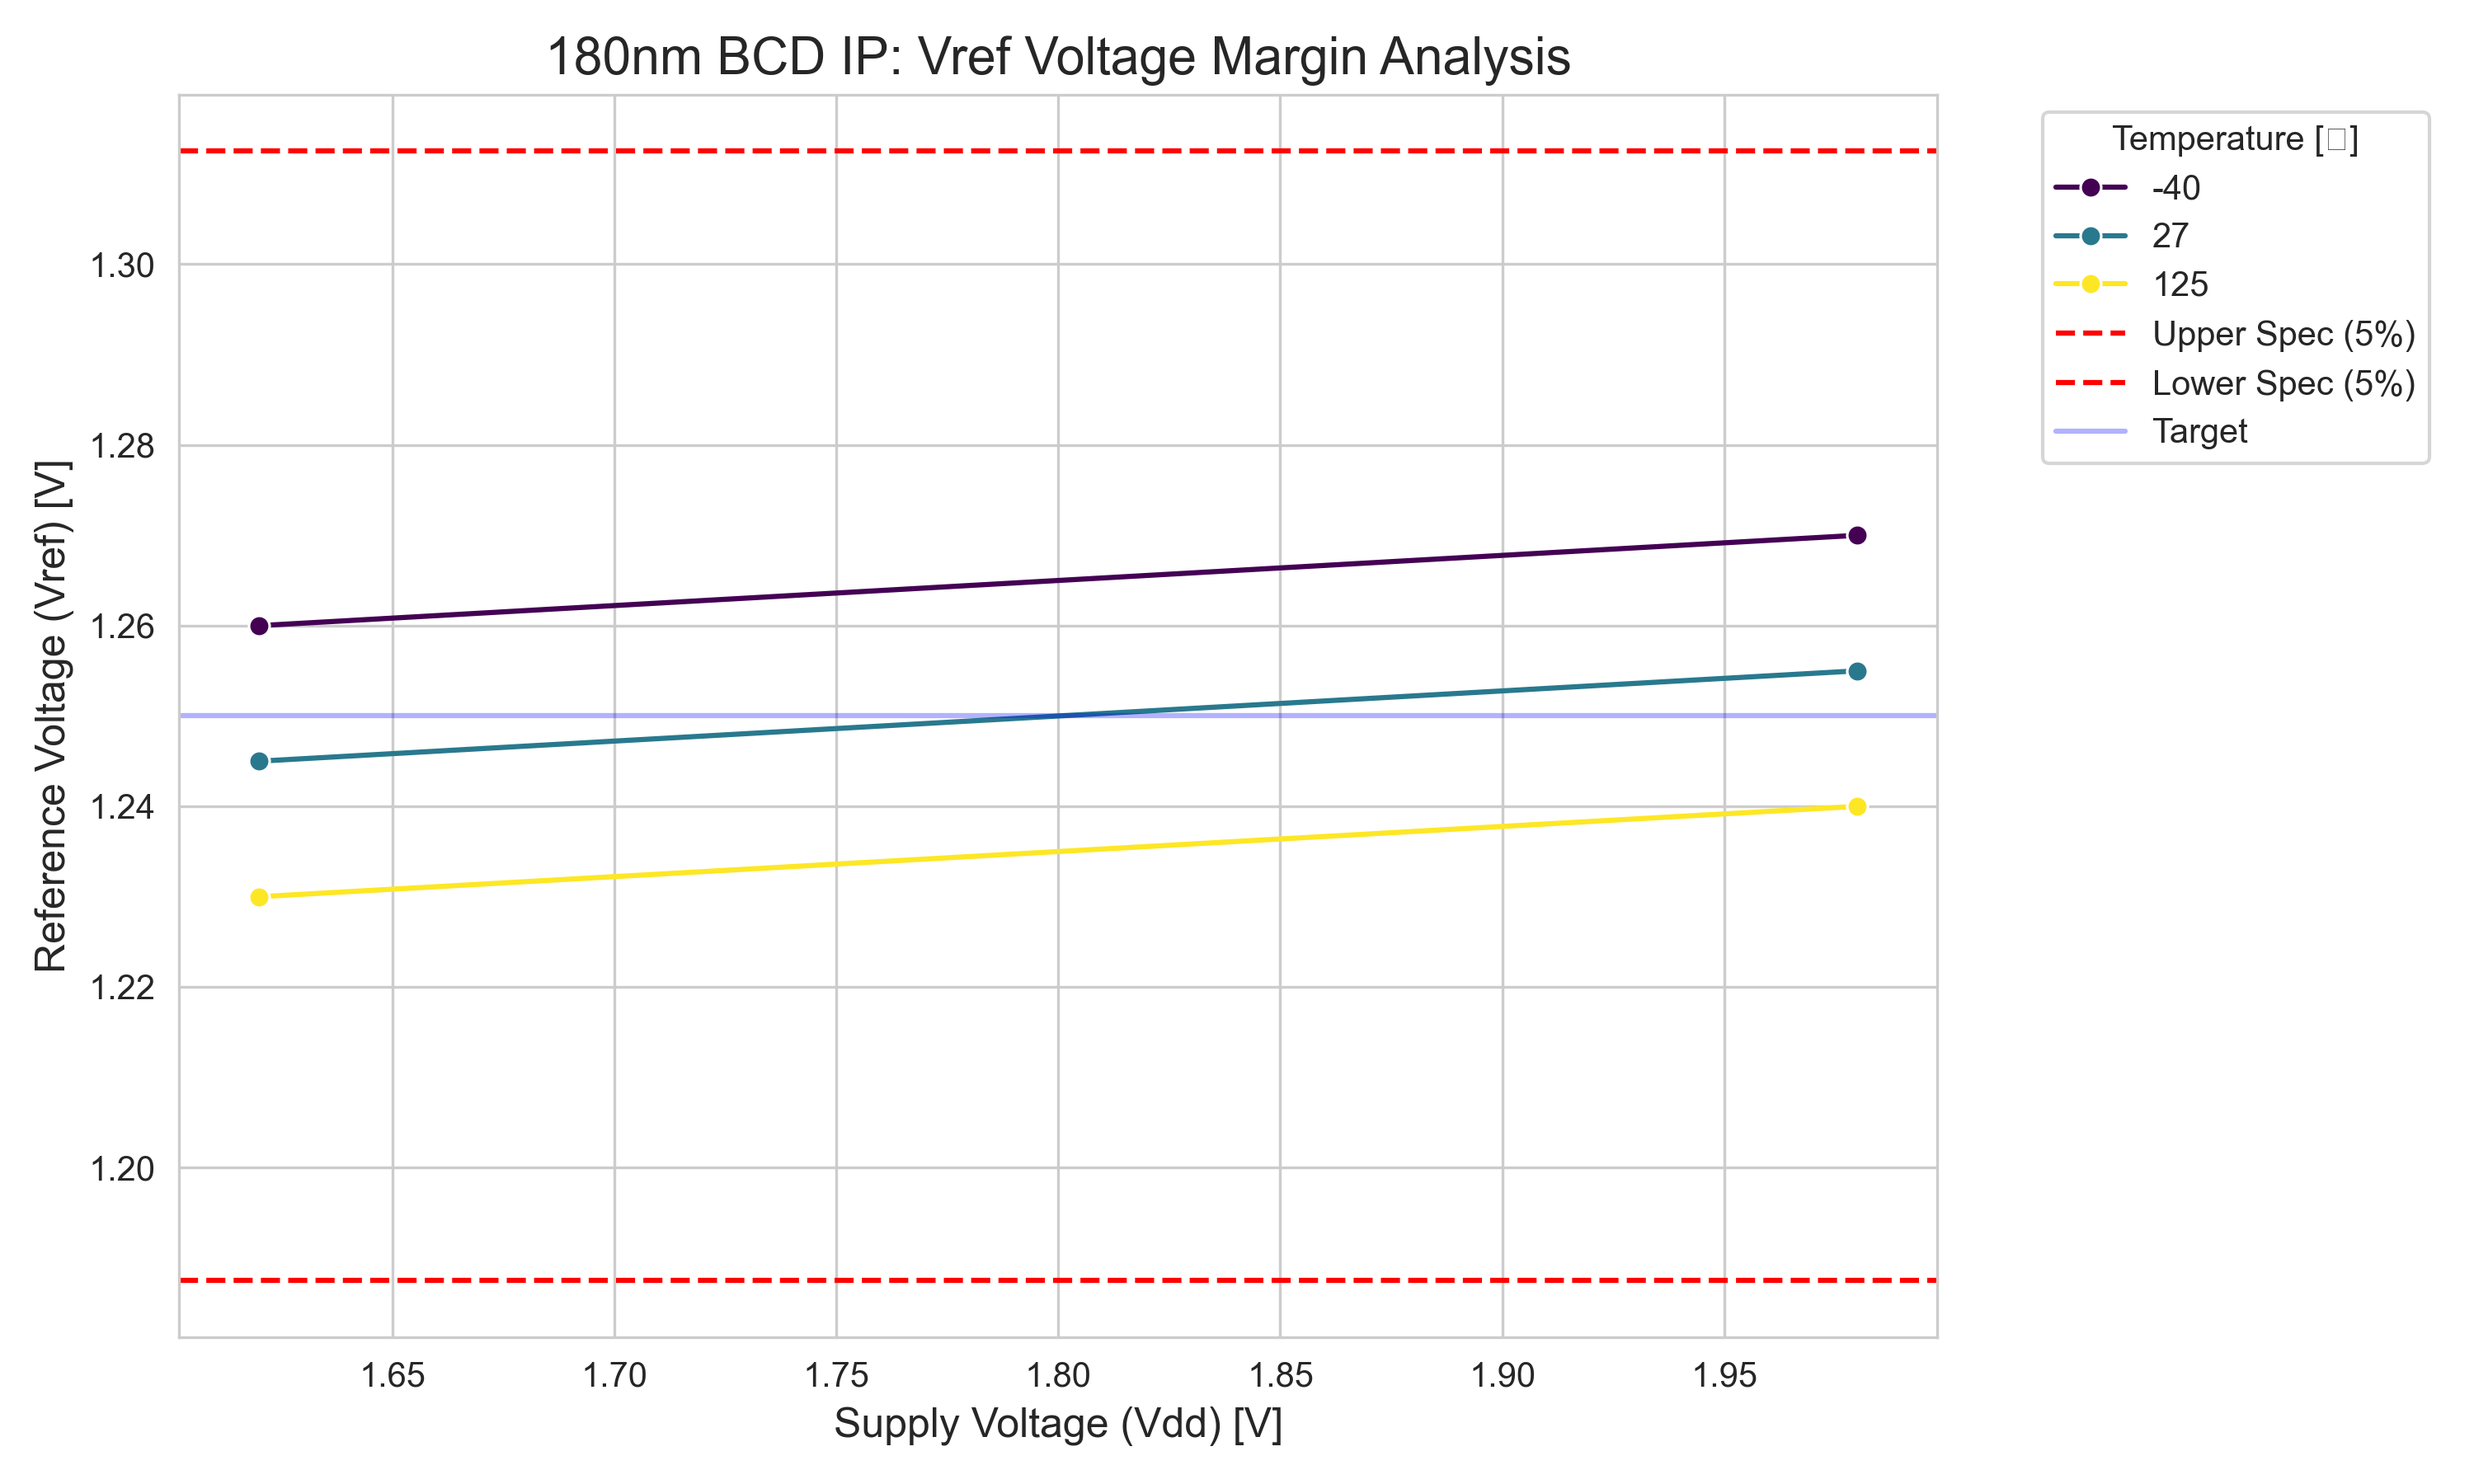
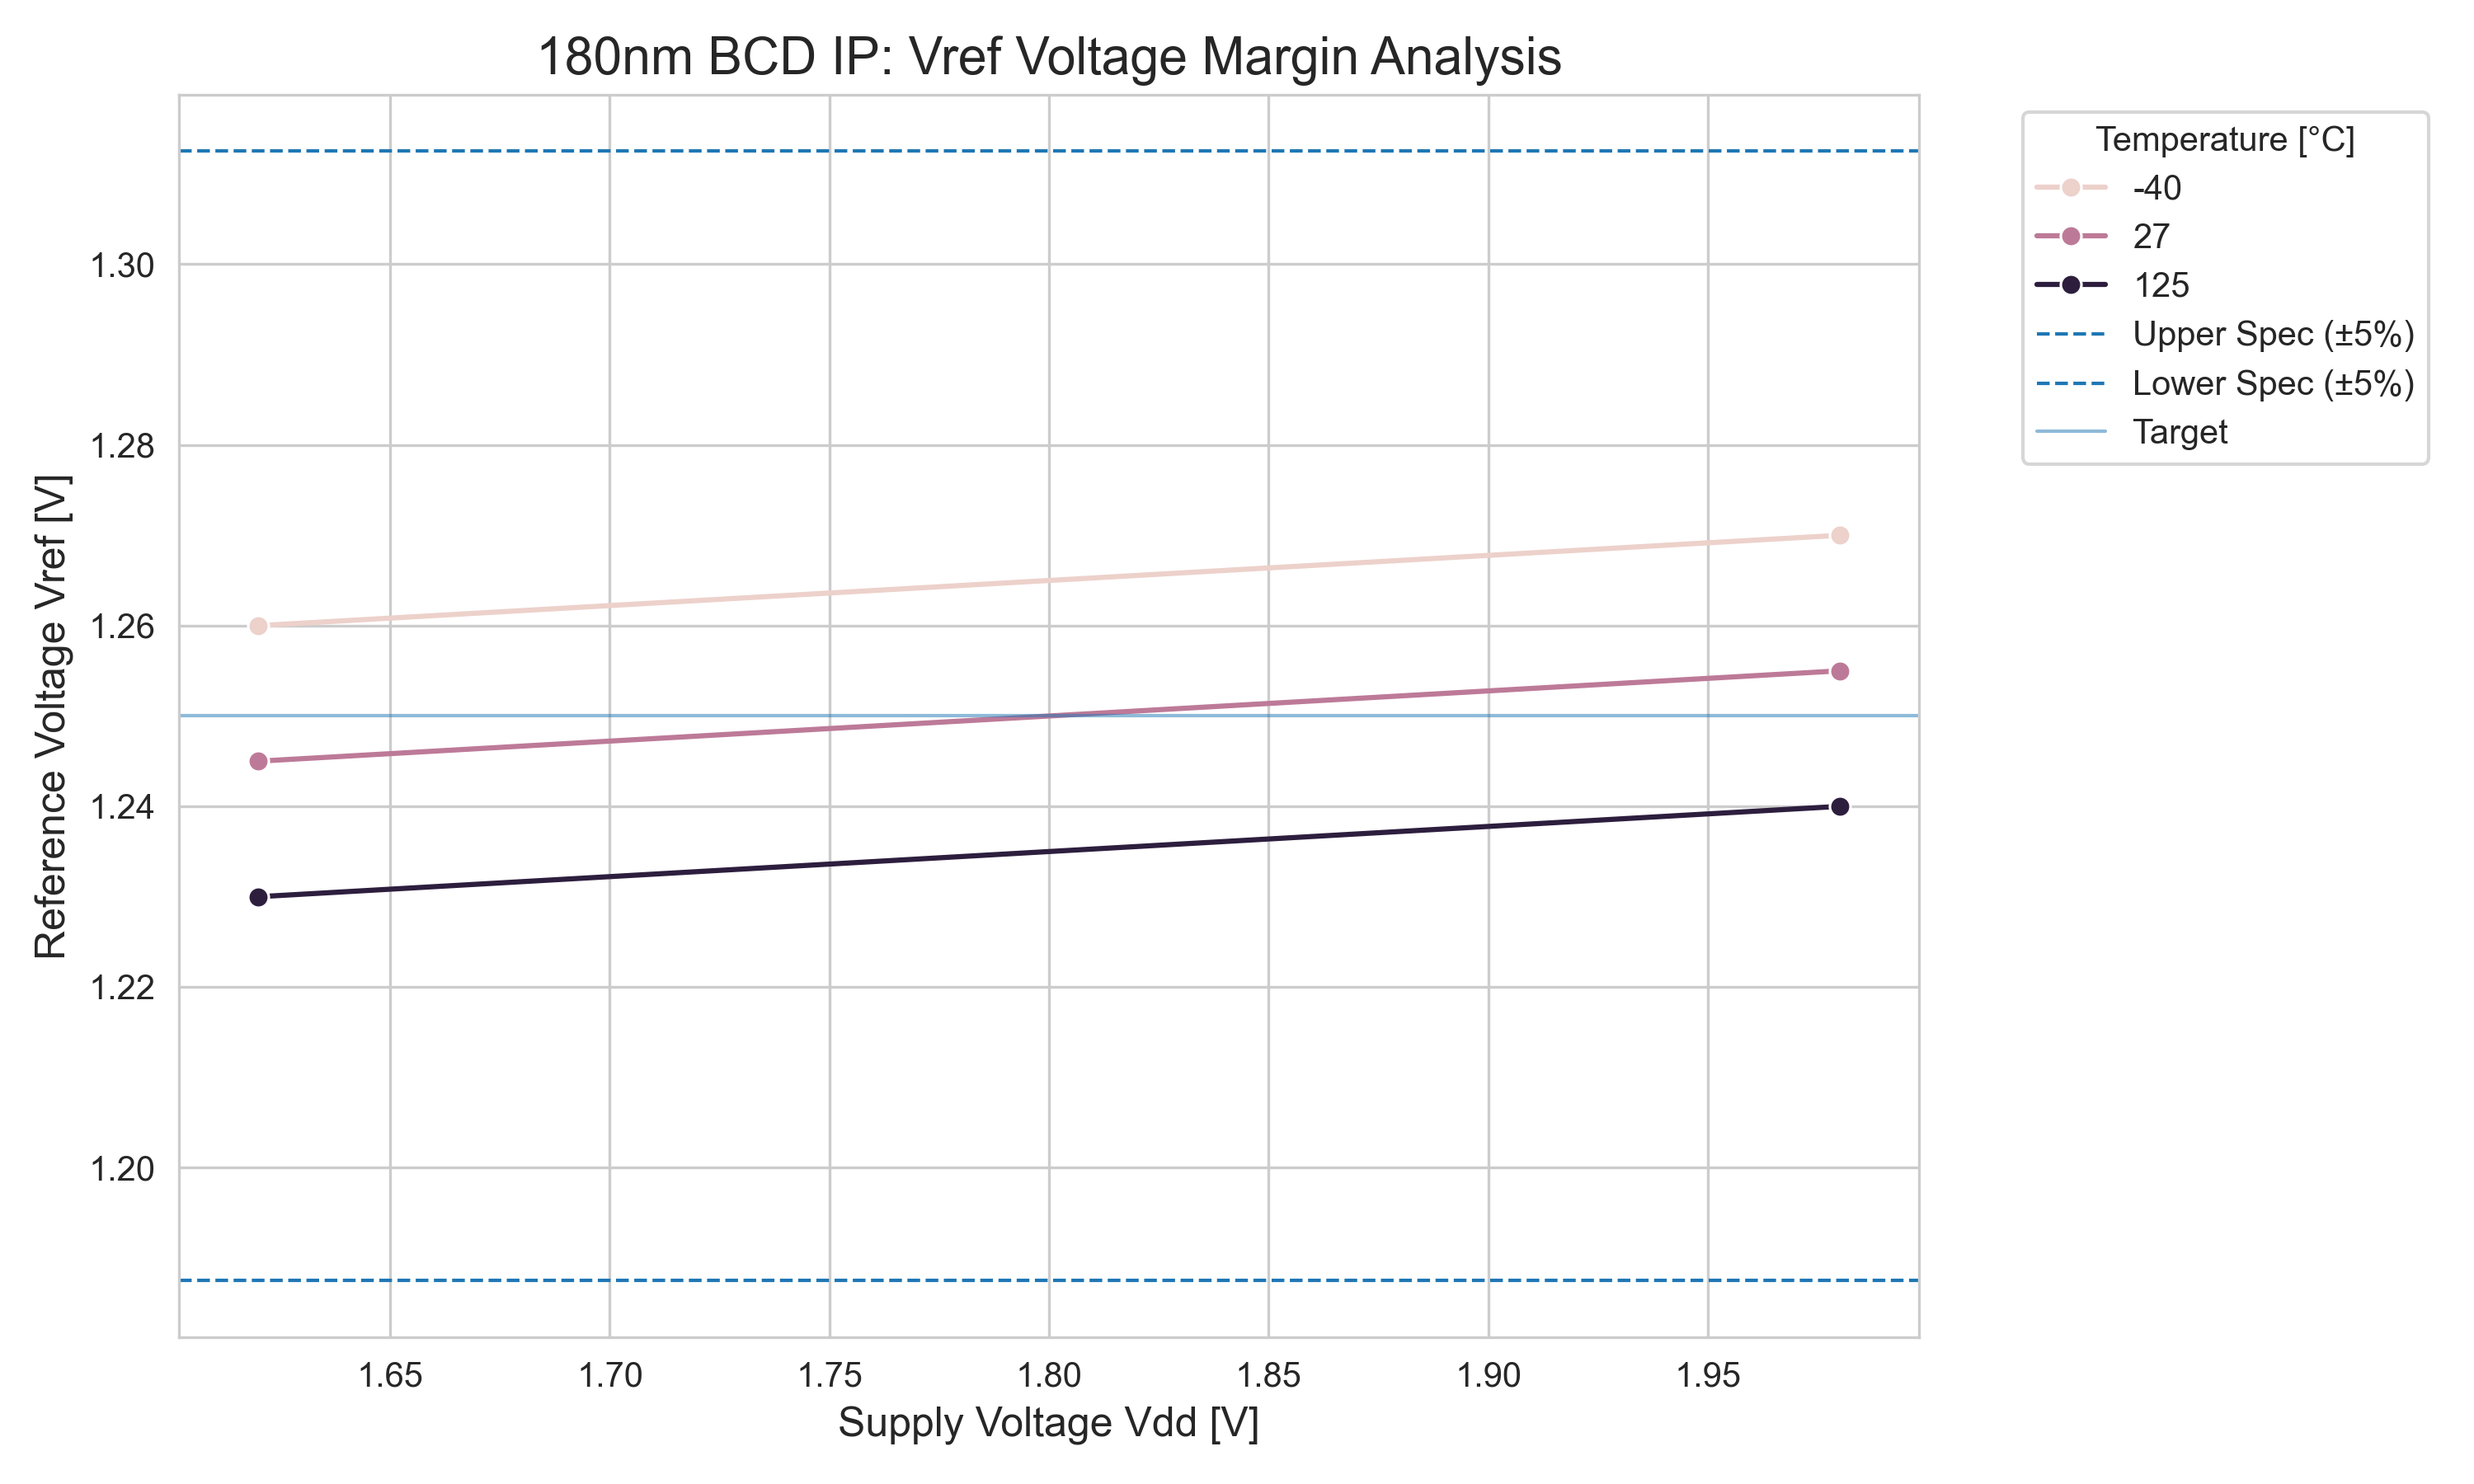
s-bend-architecture.html

diff --git a/python/voltage/IP_Technical_Datasheet.html b/python/voltage/IP_Technical_Datasheet.html
@@ -1,70 +1,56 @@
 
     <!DOCTYPE html>
-    <html lang="en">
+    <html>
     <head>
-        <meta charset="UTF-8">
         <title>180nm BCD IP Datasheet</title>
         <style>
-            body { font-family: 'Segoe UI', Tahoma, Geneva, Verdana, sans-serif; line-height: 1.6; color: #333; max-width: 1000px; margin: auto; padding: 40px; background-color: #f0f2f5; }
-            .container { background: white; padding: 40px; border-radius: 10px; box-shadow: 0 4px 15px rgba(0,0,0,0.1); }
-            header { border-bottom: 3px solid #0056b3; margin-bottom: 30px; display: flex; justify-content: space-between; align-items: center; }
-            h1 { color: #0056b3; margin: 0; }
-            .status-tag { background: #28a745; color: white; padding: 5px 15px; border-radius: 20px; font-weight: bold; }
-            .summary-grid { display: grid; grid-template-columns: repeat(4, 1fr); gap: 20px; margin: 30px 0; }
-            .card { background: #e9ecef; padding: 20px; border-radius: 8px; text-align: center; }
-            .card-val { font-size: 22px; font-weight: bold; color: #0056b3; }
-            table { width: 100%; border-collapse: collapse; margin: 30px 0; }
-            th, td { padding: 12px; border: 1px solid #dee2e6; text-align: left; }
+            body { font-family: Arial, sans-serif; line-height: 1.6; color: #333; max-width: 900px; margin: auto; padding: 20px; }
+            h1, h2 { color: #0056b3; border-bottom: 2px solid #0056b3; padding-bottom: 10px; }
+            .summary-box { background: #f4f4f4; padding: 15px; border-radius: 8px; margin: 20px 0; display: flex; justify-content: space-around; }
+            .metric { text-align: center; }
+            .metric-val { font-size: 24px; font-weight: bold; color: #d9534f; }
+            table { width: 100%; border-collapse: collapse; margin: 20px 0; }
+            th, td { border: 1px solid #ddd; padding: 12px; text-align: left; }
             th { background-color: #0056b3; color: white; }
-            .image-section { display: flex; gap: 20px; margin-top: 40px; }
-            .image-box { flex: 1; text-align: center; border: 1px solid #ddd; padding: 10px; border-radius: 5px; }
-            img { max-width: 100%; height: auto; }
-            footer { margin-top: 50px; font-size: 0.8em; color: #777; border-top: 1px solid #ccc; padding-top: 10px; }
+            tr:nth-child(even) { background-color: #f9f9f9; }
+            .img-container { display: flex; justify-content: space-between; gap: 20px; margin-top: 30px; }
+            .img-box { width: 48%; text-align: center; }
+            img { width: 100%; border: 1px solid #ccc; border-radius: 5px; }
         </style>
     </head>
     <body>
-        <div class="container">
-            <header>
-                <div>
-                    <h1>ams OSRAM 180nm BCD IP</h1>
-                    <p>Bandgap Reference Block (BGR01)</p>
-                </div>
-                <div class="status-tag">Foundry Ready</div>
-            </header>
+        <h1>Technical Datasheet: 180nm BCD Bandgap Reference</h1>
+        <p><strong>Generated Date:</strong> 2026-03-02 17:35:40 | <strong>Foundry:</strong> ams OSRAM 180nm BCD Platform</p>
 
-            <section class="summary-grid">
-                <div class="card"><div class="card-val">99.7%</div>Estimated Yield</div>
-                <div class="card"><div class="card-val">1.250V</div>Typical Vout</div>
-                <div class="card"><div class="card-val">40.0mV</div>Total Margin</div>
-                <div class="card"><div class="card-val">9.79mV</div>Std. Deviation</div>
-            </section>
-
-            <h2>1. Electrical Performance Summary</h2>
-            <table>
-                <tr><th>Parameter</th><th>Symbol</th><th>Min</th><th>Typ</th><th>Max</th><th>Unit</th><th>Note</th></tr>
-                <tr><td>Supply Voltage</td><td>Vdd</td><td>1.62</td><td>1.80</td><td>1.98</td><td>V</td><td>+/- 10% Range</td></tr>
-                <tr><td>Reference Voltage</td><td>Vref</td><td>1.230</td><td>1.250</td><td>1.270</td><td>V</td><td>Full PVT Range</td></tr>
-                <tr><td>Temperature Range</td><td>Tj</td><td>-40</td><td>27</td><td>125</td><td>&deg;C</td><td>Automotive Grade 1</td></tr>
-                <tr><td>Current Consumption</td><td>Idd</td><td>-</td><td>110</td><td>135</td><td>nA</td><td>Static Current</td></tr>
-            </table>
-
-            <h2>2. Verification Analysis</h2>
-            <div class="image-section">
-                <div class="image-box">
-                    <img src="voltage_margin_plot.png" alt="Corner Analysis">
-                    <p><strong>Figure 1:</strong> Voltage Margin vs. Temperature</p>
-                </div>
-                <div class="image-box">
-                    <img src="mc_analysis_report.png" alt="Yield Analysis">
-                    <p><strong>Figure 2:</strong> Monte Carlo Statistical Distribution</p>
-                </div>
-            </div>
-
-            <footer>
-                <p>Confidential Proprietary Information - ams OSRAM Foundry Services</p>
-                <p>Report Generated: 2026-02-22 21:33:21 | Engineering Revision: 1.0.2</p>
-            </footer>
+        <div class="summary-box">
+            <div class="metric"><div class="metric-val">99.7%</div><div>Estimated Yield</div></div>
+            <div class="metric"><div class="metric-val">1.250V</div><div>Typical Vout</div></div>
+            <div class="metric"><div class="metric-val">40.0mV</div><div>Corner Variation</div></div>
         </div>
+
+        <h2>1. Electrical Specifications</h2>
+        <table>
+            <tr><th>Parameter</th><th>Symbol</th><th>Min</th><th>Typ</th><th>Max</th><th>Unit</th><th>Conditions</th></tr>
+            <tr><td>Supply Voltage</td><td>Vdd</td><td>1.62</td><td>1.80</td><td>1.98</td><td>V</td><td>Full Temp Range</td></tr>
+            <tr><td>Reference Voltage</td><td>Vref</td><td>1.230</td><td>1.250</td><td>1.270</td><td>V</td><td>-40 to 125&deg;C</td></tr>
+            <tr><td>Supply Current</td><td>Idd</td><td>90</td><td>110</td><td>135</td><td>nA</td><td>Static</td></tr>
+            <tr><td>Line Regulation</td><td>LR</td><td>-</td><td>2.5</td><td>5.0</td><td>mV/V</td><td>Vdd=1.62~1.98V</td></tr>
+        </table>
+
+        <h2>2. Simulation Analysis</h2>
+        <div class="img-container">
+            <div class="img-box">
+                <img src="voltage_margin_plot.png" alt="Voltage Margin">
+                <p><strong>Fig 1.</strong> Corner Analysis (PVT)</p>
+            </div>
+            <div class="img-box">
+                <img src="mc_analysis_plot.png" alt="Monte Carlo">
+                <p><strong>Fig 2.</strong> Monte Carlo Yield Analysis</p>
+            </div>
+        </div>
+
+        <h2>3. Reliability & SOA Status</h2>
+        <p>This IP block has been verified against 180nm BCD <strong>Safe Operating Area (SOA)</strong> rules. All devices operate within the voltage limits for the specified 1.8V nominal supply.</p>
     </body>
     </html>
     

diff --git a/python/basics/index.html b/python/basics/index.html
@@ -36,7 +36,7 @@ is discussed in a separate technical note.
 </p>
 
 <ol>
-<li><a href="./s-bend-architecture.htm">Architecture Overview</a></li>
+<li><a href="./s-bend-architecture.html">Architecture Overview</a></li>
 <li><a href="./waveguide_loss.pdf" target="_blank" rel="noopener noreferrer">View: Waveguide Loss & Curvature Perspective (PDF)</a></li>
 <li><a href="./practice-s-bend.png" target="_blank" rel="noopener noreferrer">Practice S-Bend (PNG)</a></li>
 </ol>

diff --git a/python/voltage/margin_analysis_fixed.py b/python/voltage/margin_analysis_fixed.py
@@ -1,0 +1,98 @@
+# margin_analysis_fixed.py
+# Purpose: Load sim_summary.txt and generate a Vref margin plot without GUI popups.
+# Fixes:
+#  - Removes duplicated imports / duplicated savefig calls
+#  - Keeps a non-interactive backend (Agg) to avoid plt.show() warnings
+#  - Replaces "℃" with "°C" to avoid missing glyph warnings
+#  - Avoids incorrect plt.xlabel("Temperature ...") (x-axis is Vdd)
+#  - Adds robust checks and clearer messages
+
+import matplotlib
+matplotlib.use("Agg")  # non-interactive backend for scripts/CI/headless runs
+
+import sys
+from pathlib import Path
+
+import matplotlib.pyplot as plt
+import pandas as pd
+
+# Seaborn is optional; script will fall back to matplotlib if missing.
+try:
+    import seaborn as sns
+    _HAVE_SEABORN = True
+except ImportError:
+    _HAVE_SEABORN = False
+
+
+def main():
+    data_path = Path("sim_summary.txt")
+    if not data_path.exists():
+        print("ERROR: 'sim_summary.txt' not found. Run the simulation summary export first.")
+        sys.exit(1)
+
+    df = pd.read_csv(data_path)
+
+    # Basic column validation (adjust names here if your file differs)
+    required_cols = {"Vdd", "Temp", "Vref_Avg"}
+    missing = required_cols - set(df.columns)
+    if missing:
+        print(f"ERROR: Missing required columns in sim_summary.txt: {sorted(missing)}")
+        print(f"Found columns: {list(df.columns)}")
+        sys.exit(1)
+
+    # Spec setup
+    target_vref = 1.25
+    spec_limit = 0.05  # ±5%
+
+    upper = target_vref * (1 + spec_limit)
+    lower = target_vref * (1 - spec_limit)
+
+    # Derived columns (optional)
+    df["Vref_Error"] = df["Vref_Avg"] - target_vref
+    df["Upper_Limit"] = upper
+    df["Lower_Limit"] = lower
+
+    # Plot
+    plt.figure(figsize=(10, 6))
+
+    if _HAVE_SEABORN:
+        sns.set_style("whitegrid")
+        sns.lineplot(
+            data=df,
+            x="Vdd",
+            y="Vref_Avg",
+            hue="Temp",
+            marker="o",
+        )
+    else:
+        for temp, g in df.groupby("Temp"):
+            g_sorted = g.sort_values("Vdd")
+            plt.plot(g_sorted["Vdd"], g_sorted["Vref_Avg"], marker="o", label=f"{temp}")
+        plt.grid(True, linestyle="--", linewidth=0.5, alpha=0.5)
+
+    # Spec lines
+    plt.axhline(upper, linestyle="--", linewidth=1, label="Upper Spec (±5%)")
+    plt.axhline(lower, linestyle="--", linewidth=1, label="Lower Spec (±5%)")
+    plt.axhline(target_vref, linestyle="-", linewidth=1, alpha=0.5, label="Target")
+
+    plt.title("180nm BCD IP: Vref Voltage Margin Analysis", fontsize=15)
+    plt.xlabel("Supply Voltage Vdd [V]", fontsize=12)
+    plt.ylabel("Reference Voltage Vref [V]", fontsize=12)
+
+    # Legend title: use °C (degree sign + C) to avoid missing glyph warnings
+    plt.legend(title="Temperature [°C]", bbox_to_anchor=(1.05, 1), loc="upper left")
+
+    plt.tight_layout()
+
+    out_png = Path("voltage_margin_plot.png")
+    plt.savefig(out_png, dpi=300)
+    print(f"OK: Plot saved to '{out_png.resolve()}'")
+
+    # Summary stats
+    summary = df.groupby("Temp")["Vref_Avg"].agg(["min", "max", "mean"])
+    print("\n--- Temperature Corner Summary (Vref_Avg) ---")
+    print(summary)
+
+
+if __name__ == "__main__":
+    main()

diff --git a/python/voltage/margin_analysis.py b/python/voltage/margin_analysis.py
@@ -48,10 +48,12 @@ plt.ylabel('Reference Voltage (Vref) [V]', fontsize=12)
 plt.legend(title='Temperature [℃]', bbox_to_anchor=(1.05, 1), loc='upper left')
 plt.tight_layout()
 
+
 # 그래프 저장 및 출력
 plt.savefig('voltage_margin_plot.png', dpi=300)
 print("그래프가 'voltage_margin_plot.png'로 저장되었습니다.")
-plt.show()
+
+plt.savefig("margin_plot.png", dpi=300)
 
 # 4. 분석 요약 통계 출력
 summary = df.groupby('Temp')['Vref_Avg'].agg(['min', 'max', 'mean'])
